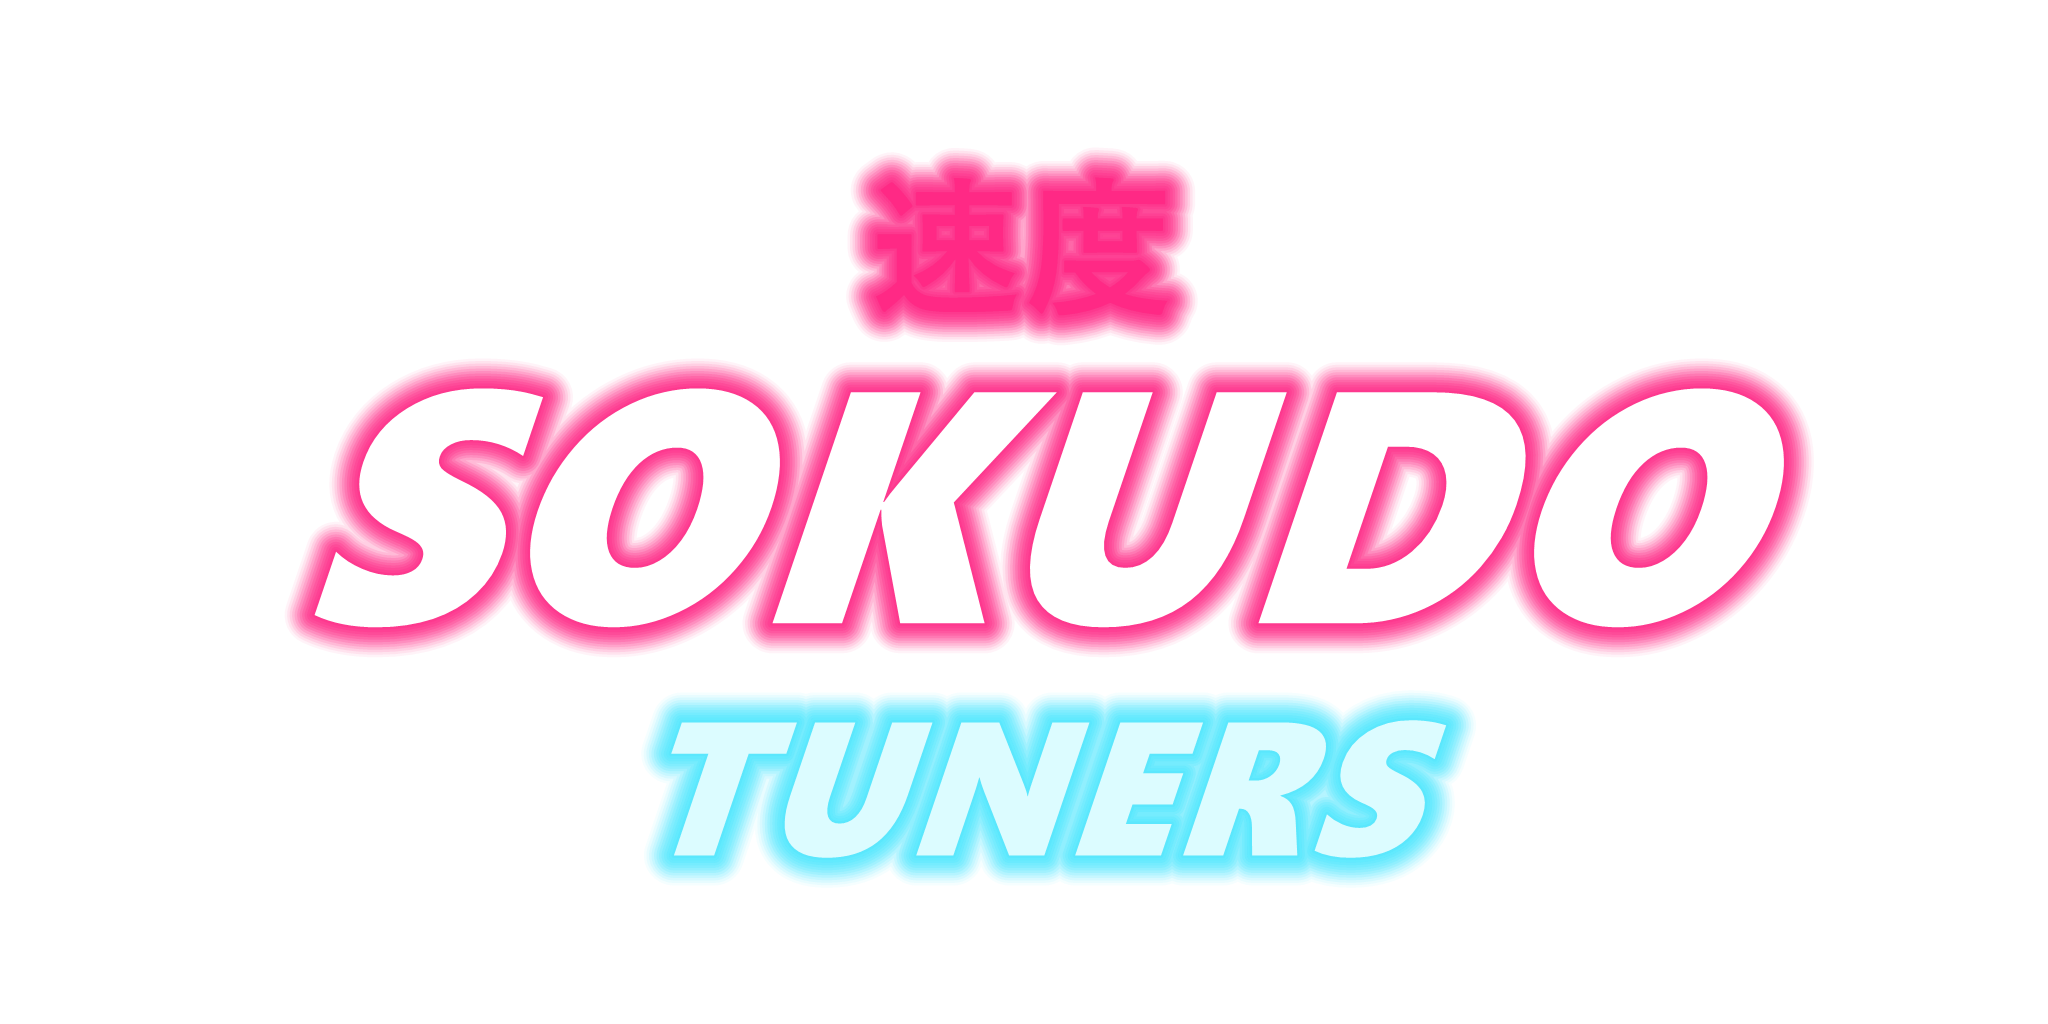
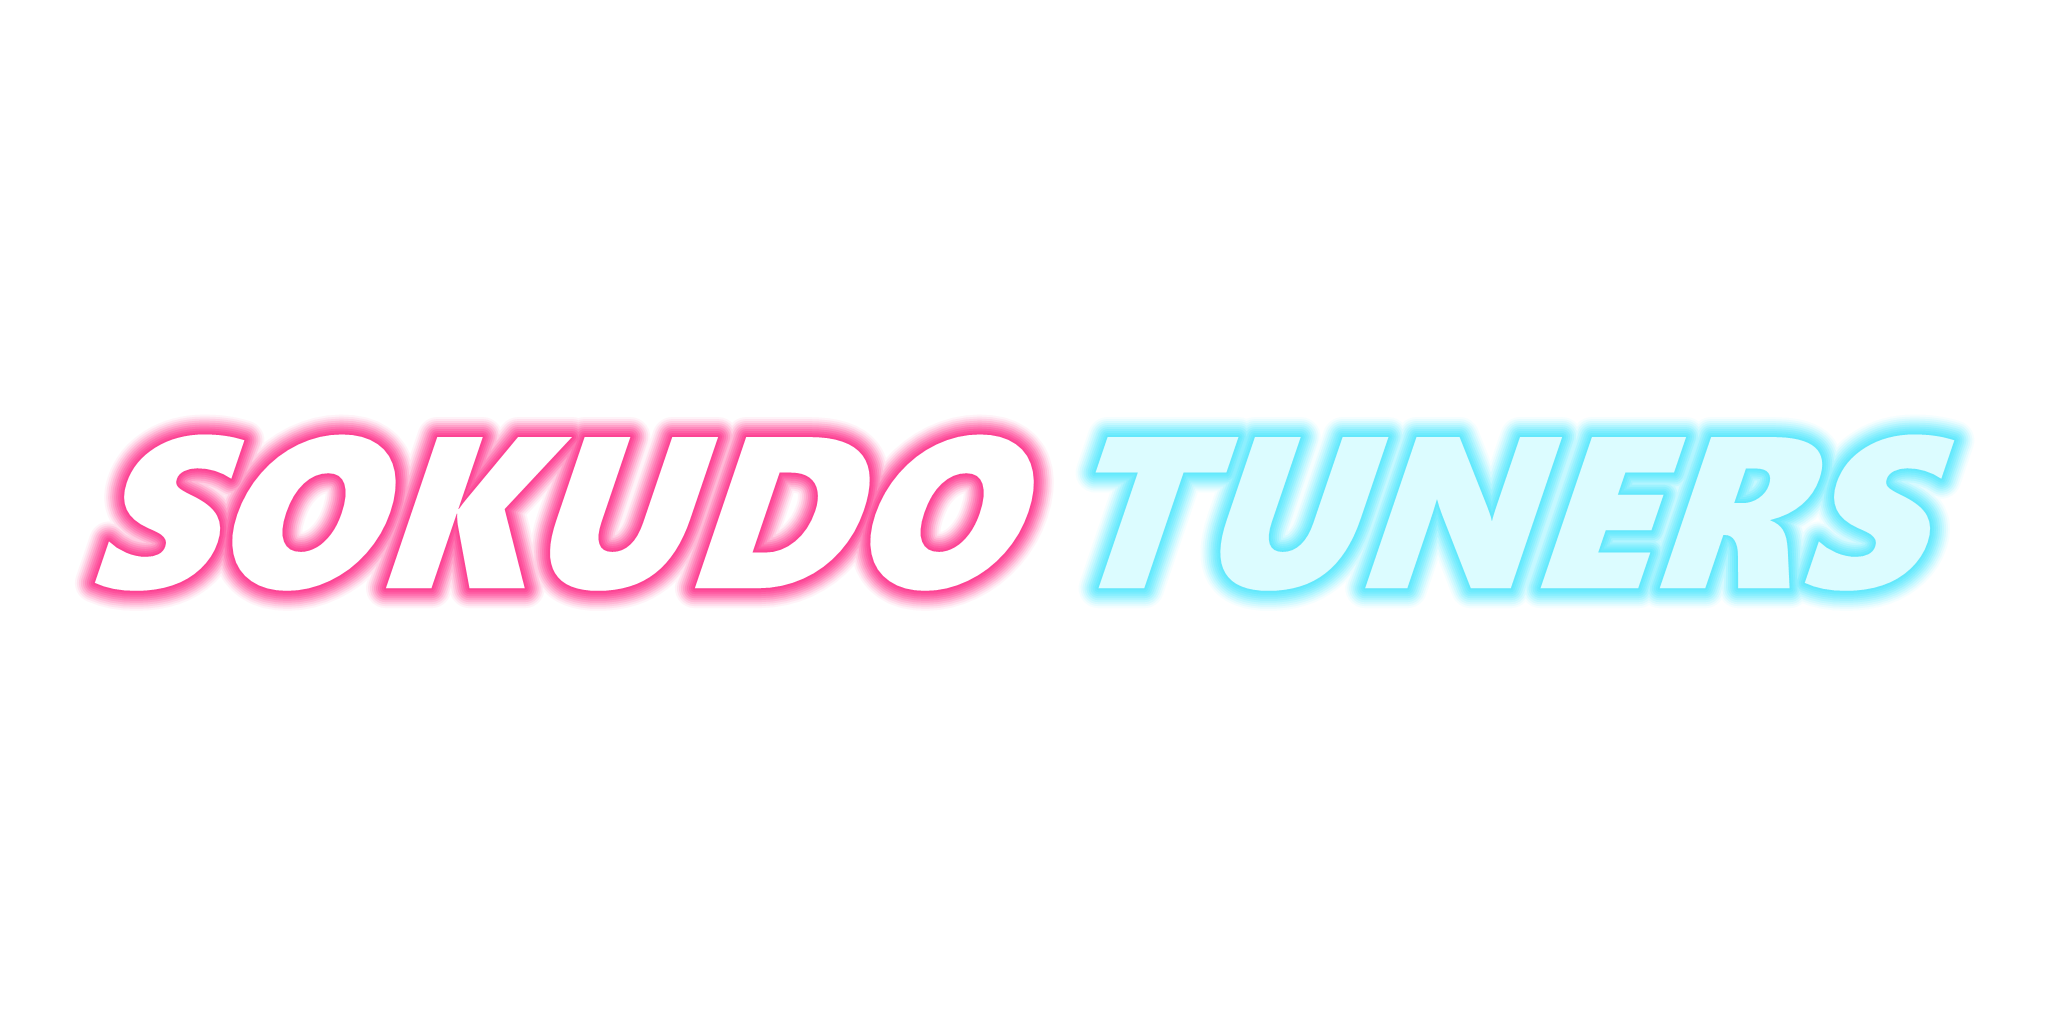
One-line shop sign, proper map pin, camera stays inside the shop
The building's frame hides the top and bottom of the sign panel, so the sign
is now a single SOKUDO TUNERS line in the visible strip. The map pin keeps the
game's round background, tinted pink, with a white S. The garage camera also
casts back from its own spot, since rays from inside the shop pass through the
back of the walls.

Changed region(s): [[0.0312, 0.125, 0.9688, 0.875]]

diff --git a/src/GarageCamera.cs b/src/GarageCamera.cs
@@ -70,7 +70,9 @@ namespace SokudoTuners
 
         private static Vector3 Centre(LandVehicle vehicle) => vehicle.transform.position + Vector3.up * 0.9f;
 
-        // Keeps the camera from swinging through walls when I'm parked next to a building.
+        // Keeps the camera from swinging through walls when I'm parked next to a building or inside the shop.
+        // Rays don't hit the back of a mesh, so from inside a room they pass straight out through the wall.
+        // Casting back from the camera's spot as well catches the wall's outside face.
         private static Vector3 KeepOutOfWalls(Vector3 centre, Vector3 wanted)
         {
             Vector3 toCamera = wanted - centre;
@@ -79,13 +81,19 @@ namespace SokudoTuners
 
             float allowed = distance;
             foreach (RaycastHit hit in Physics.RaycastAll(centre, direction, distance, ~0, QueryTriggerInteraction.Ignore))
-            {
-                if (hit.collider.transform.IsChildOf(_vehicle.transform))
-                    continue;
-                allowed = Mathf.Min(allowed, hit.distance - 0.3f);
-            }
+                if (!Ignored(hit.collider))
+                    allowed = Mathf.Min(allowed, hit.distance - 0.3f);
+            foreach (RaycastHit hit in Physics.RaycastAll(wanted, -direction, distance, ~0, QueryTriggerInteraction.Ignore))
+                if (!Ignored(hit.collider))
+                    allowed = Mathf.Min(allowed, distance - hit.distance - 0.3f);
 
             return centre + direction * Mathf.Max(allowed, 1.5f);
+        }
+
+        private static bool Ignored(Collider collider)
+        {
+            Transform hit = collider.transform;
+            return hit.IsChildOf(_vehicle.transform) || (Player.Local != null && hit.IsChildOf(Player.Local.transform));
         }
     }
 }

diff --git a/src/AutoShop.cs b/src/AutoShop.cs
@@ -168,12 +168,21 @@ namespace SokudoTuners
 
         private static void SetPinIcon()
         {
-            if (_pin == null || _pin.IconContainer == null || ModAssets.Icon == null)
+            if (_pin == null || _pin.IconContainer == null || ModAssets.PinGlyph == null)
                 return;
-            foreach (Image image in _pin.IconContainer.GetComponentsInChildren<Image>(true))
+
+            // Keep the pin's own round background but tint it pink, and swap the symbol on top for my S.
+            Image[] images = _pin.IconContainer.GetComponentsInChildren<Image>(true);
+            for (int i = 0; i < images.Length; i++)
             {
-                image.sprite = ModAssets.Icon;
-                image.color = Color.white;
+                if (i == 0 && images.Length > 1)
+                {
+                    images[i].color = new Color(1f, 0.16f, 0.52f);
+                    continue;
+                }
+                images[i].sprite = ModAssets.PinGlyph;
+                images[i].color = Color.white;
+                images[i].preserveAspect = true;
             }
         }
     }

diff --git a/src/ModAssets.cs b/src/ModAssets.cs
@@ -8,8 +8,10 @@ namespace SokudoTuners
     public static class ModAssets
     {
         private static Sprite _icon;
+        private static Sprite _pinGlyph;
 
         public static Sprite Icon => _icon != null ? _icon : _icon = LoadSprite("icon.png");
+        public static Sprite PinGlyph => _pinGlyph != null ? _pinGlyph : _pinGlyph = LoadSprite("pin.png");
 
         public static Texture2D LoadTexture(string name)
         {
